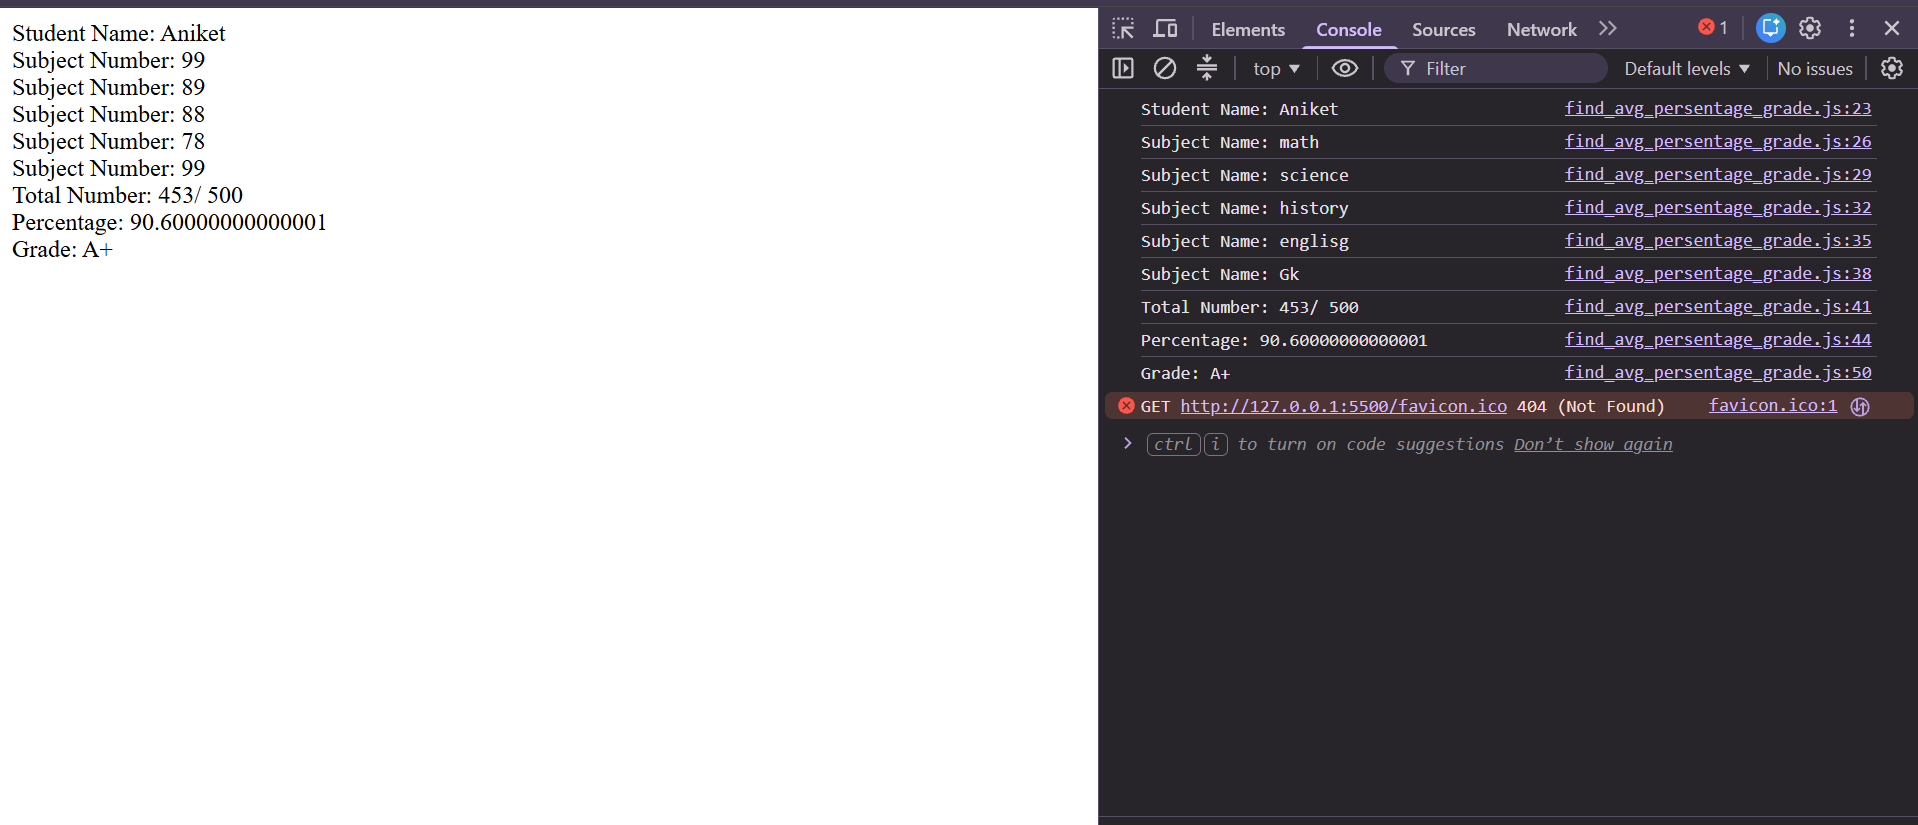
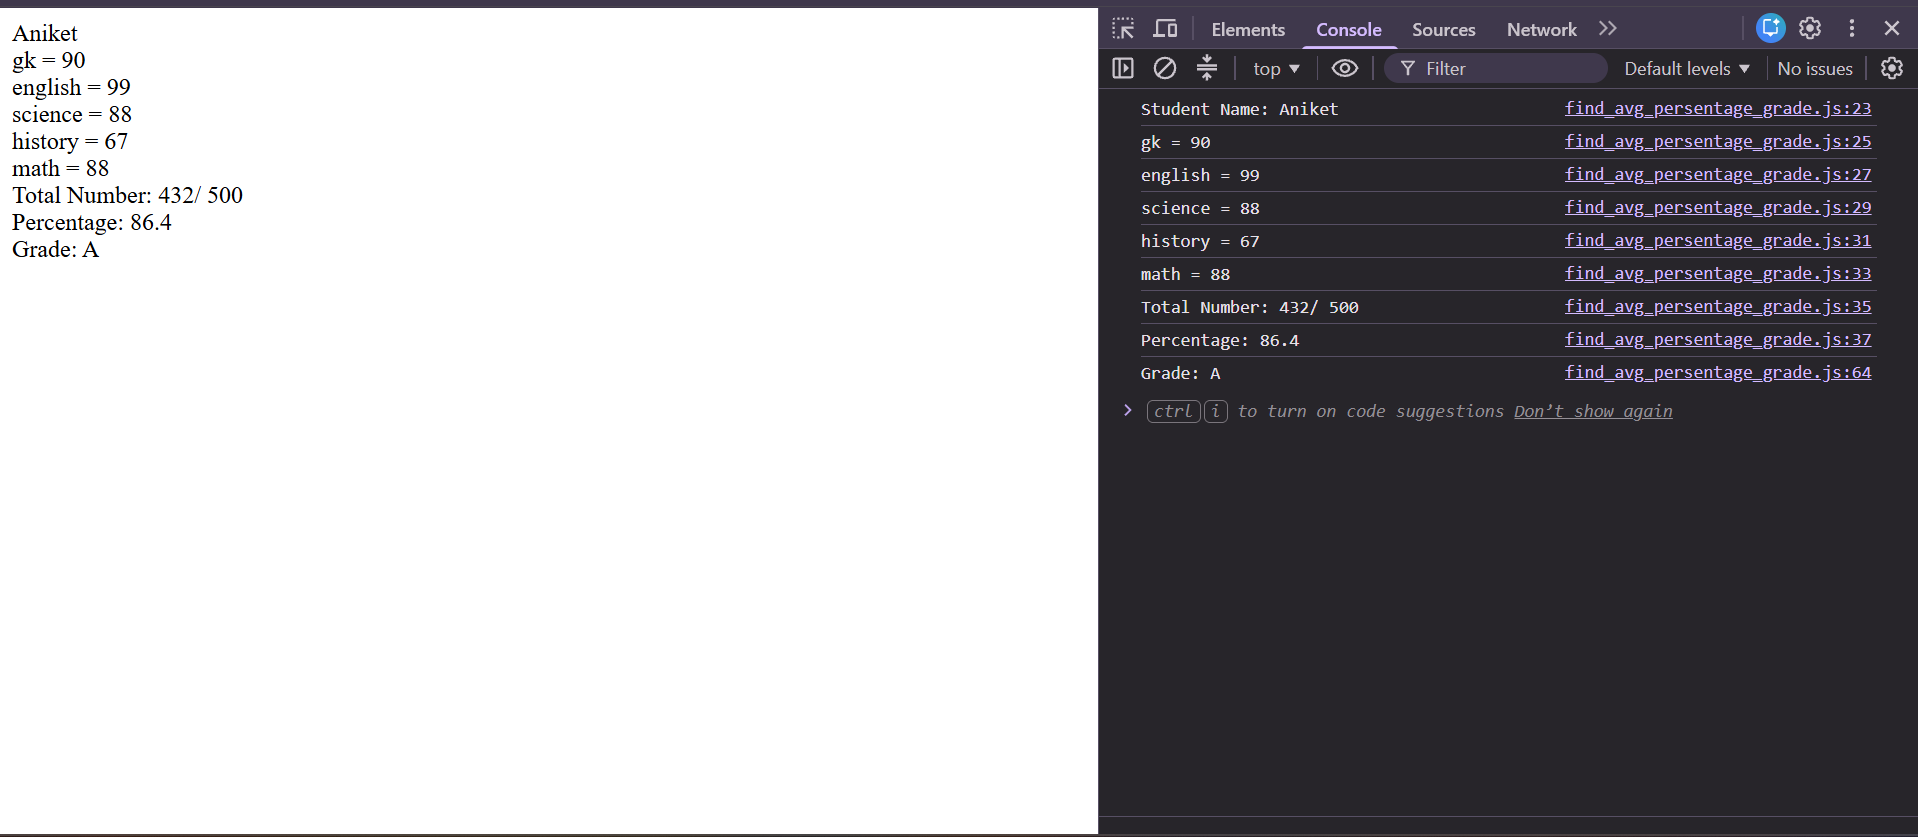
change grade code

diff --git a/js_Learning/day6Assignment/js/find_avg_persentage_grade.js b/js_Learning/day6Assignment/js/find_avg_persentage_grade.js
@@ -21,27 +21,37 @@ let totalNumber = subjectNum1 + subjectNum2 + subjectNum3 + subjectNum4 + subjec
 let percentage = (totalNumber / 500) * 100;
 
 console.log(`Student Name: ${studentName}`);
-document.write(`Student Name: ${studentName}<br>`);
 
-console.log(`Subject Name: ${subjectName1}`);
-document.write(`Subject Number: ${subjectNum1}<br>`);
+console.log(`${subjectName1} = ${subjectNum1}`);
 
-console.log(`Subject Name: ${subjectName2}`);
-document.write(`Subject Number: ${subjectNum2}<br>`);
+console.log(`${subjectName2} = ${subjectNum2}`);
 
-console.log(`Subject Name: ${subjectName3}`);
-document.write(`Subject Number: ${subjectNum3}<br>`);
+console.log(`${subjectName3} = ${subjectNum3}`);
 
-console.log(`Subject Name: ${subjectName4}`);
-document.write(`Subject Number: ${subjectNum4}<br>`);
+console.log(`${subjectName4} = ${subjectNum4}`);
 
-console.log(`Subject Name: ${subjectName5}`);
-document.write(`Subject Number: ${subjectNum5}<br>`);
+console.log(`${subjectName5} = ${subjectNum5}`);
 
 console.log(`Total Number: ${totalNumber}/ 500`);
-document.write(`Total Number: ${totalNumber}/ 500 <br>`);
 
 console.log(`Percentage: ${percentage}`);
+
+
+
+document.write(`${studentName}<br>`);
+
+document.write(`${subjectName1} = ${subjectNum1}<br>`);
+
+document.write(`${subjectName2} = ${subjectNum2}<br>`);
+
+document.write(`${subjectName3} = ${subjectNum3}<br>`);
+
+document.write(`${subjectName4} = ${subjectNum4}<br>`);
+
+document.write(`${subjectName5} = ${subjectNum5}<br>`);
+
+document.write(`Total Number: ${totalNumber}/ 500 <br>`);
+
 document.write(`Percentage: ${percentage}<br>`);
 
 
